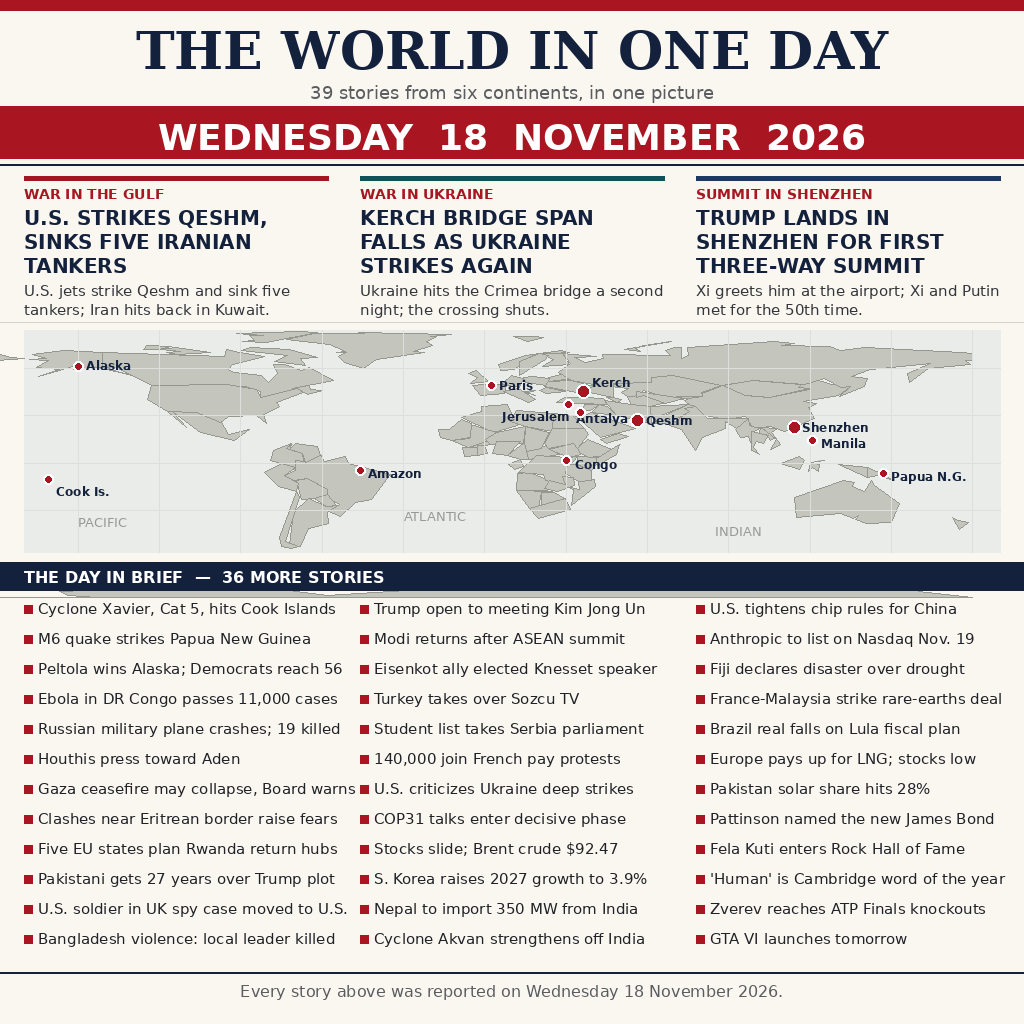
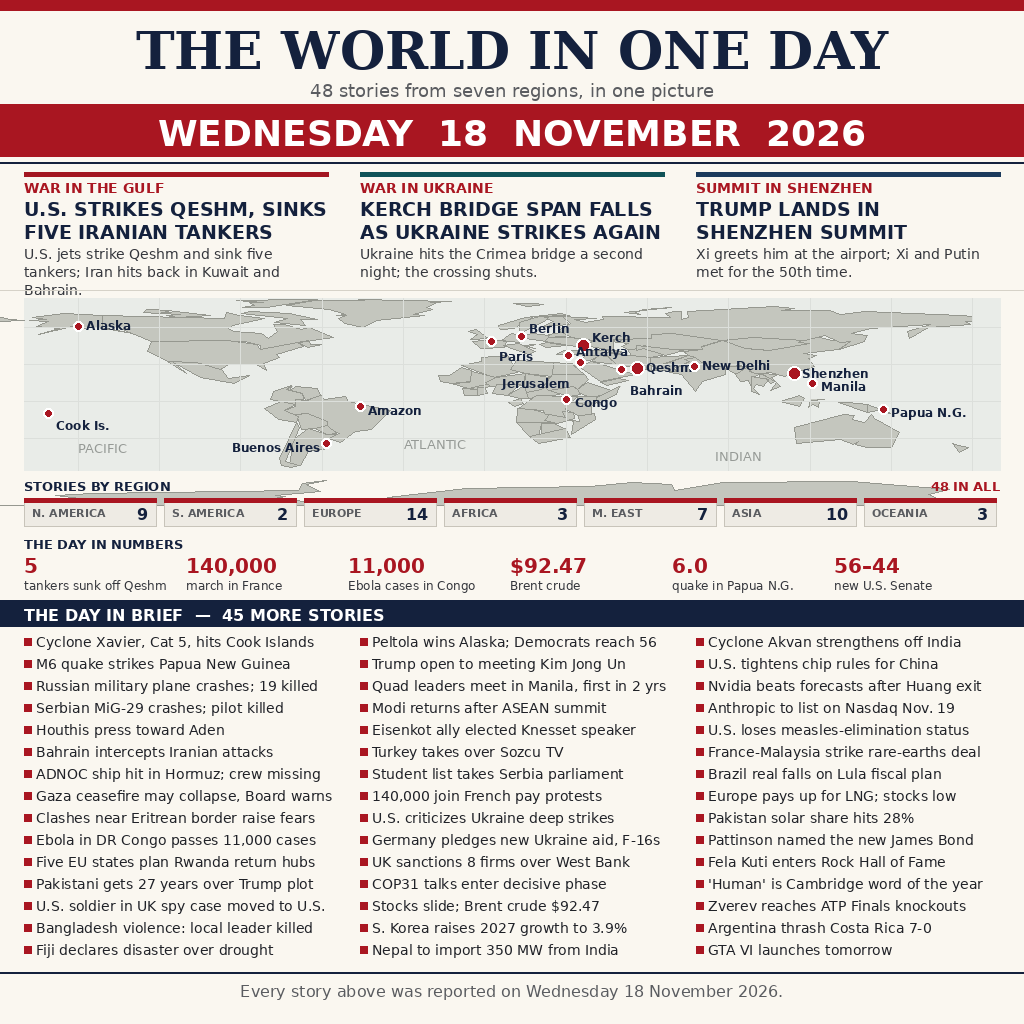
Improve front page: 48 stories, 7 regions, count bar, day in numbers
- 39 -> 48 stories (3 leads + 45 briefs), 9 new verified stories
  from 18 Nov 2026 (Quad Manila, Bahrain intercepts, ADNOC Hormuz,
  UK West Bank sanctions, US measles status, Nvidia earnings,
  Germany Ukraine aid, Serbian MiG-29, Argentina 7-0)
- 6 continents -> 7 regions, with a count bar (stories by region)
- New 'day in numbers' strip (5 tankers, 140,000 marchers, 11,000
  Ebola cases, $92.47 Brent, M6.0 quake, 56-44 Senate)
- Map hotspots 12 -> 16 (Bahrain, Berlin, Buenos Aires, New Delhi)
- Deterministic render, 1024x1024, 164,495 bytes

Changed region(s): [[0.0, 0.0625, 1.0, 0.9375], [0.0625, 0.4062, 0.125, 0.4375]]

diff --git a/draw_news.py b/draw_news.py
@@ -5,18 +5,19 @@ sums up world news of Wednesday 18 November 2026.
 Run:  python3 draw_news.py
 Out:  entry.png  (1024x1024, well under the 1 MiB gate)
 
-Layout: masthead + big date, 3 lead stories, a world map with the day's
-hotspots, and 36 more stories in brief -- 39 stories from six continents.
+Layout: masthead + big date, 3 lead stories, a world map with 16 hotspots,
+a count bar (stories by region, seven regions), a "day in numbers" strip,
+and 45 more stories in brief -- 48 stories from seven regions.
 
 The coastline data (coast.txt) is a simplified public-domain world outline
 (Natural Earth data, decimated to 88 polygons / 649 points); this script
 renders it. The map is drawn by this code, not copied as artwork.
 
-Every story was checked against live news on 18 Nov 2026 (One Turn's
-18 Nov edition, Outlook India / Times of India live blogs, NDTV,
-Al Jazeera, Reuters/Nikkei, RNZ, Fiji Met Service). Leads:
+Every story was checked against live news on 18 Nov 2026 (Times of India
+live blog, Outlook India, Anadolu Agency morning briefing, Just Security
+early edition, Level Headlines daily brief, MercoPress, TBS News). Leads:
   1. US strikes Qeshm Island and sinks five Iranian tankers; Iran hits
-     back in Kuwait and the Strait of Hormuz.
+     back in Kuwait and Bahrain.
   2. Ukraine hits the Kerch Bridge a second night; part of the span falls.
   3. Trump lands in Shenzhen for the first Trump-Xi-Putin trilateral.
 """
@@ -37,6 +38,8 @@ WHITE = (255, 255, 255)
 LAND = (196, 198, 190)
 LAND_EDGE = (150, 152, 144)
 SEA = (233, 236, 232)
+CHIP = (238, 235, 228)
+CHIP_EDGE = (200, 196, 186)
 
 FONT_DIR = "/usr/share/fonts/truetype/dejavu"
 
@@ -54,7 +57,7 @@ LEADS = [
         "kicker": "WAR IN THE GULF",
         "head": "U.S. STRIKES QESHM, SINKS FIVE IRANIAN TANKERS",
         "body": "U.S. jets strike Qeshm and sink five tankers; Iran hits back "
-                "in Kuwait.",
+                "in Kuwait and Bahrain.",
         "color": (163, 22, 33),
     },
     {
@@ -66,7 +69,7 @@ LEADS = [
     },
     {
         "kicker": "SUMMIT IN SHENZHEN",
-        "head": "TRUMP LANDS IN SHENZHEN FOR FIRST THREE-WAY SUMMIT",
+        "head": "TRUMP LANDS IN SHENZHEN SUMMIT",
         "body": "Xi greets him at the airport; Xi and Putin met for the 50th "
                 "time.",
         "color": (27, 58, 92),
@@ -78,48 +81,83 @@ DOTS = [
     (56.3, 26.9, "Qeshm", 8, -8, True),
     (36.5, 45.3, "Kerch", 8, -16, True),
     (114.1, 22.5, "Shenzhen", 8, -8, True),
+    (50.5, 26.2, "Bahrain", 8, 14, False),
+    (121.0, 14.6, "Manila", 8, -4, False),
+    (77.2, 28.6, "New Delhi", 8, -8, False),
+    (13.4, 52.5, "Berlin", 8, -16, False),
     (-161.0, -10.4, "Cook Is.", 8, 4, False),
     (147.0, -6.5, "Papua N.G.", 8, -4, False),
     (-149.9, 61.2, "Alaska", 8, -8, False),
     (30.2, 1.6, "Congo", 8, -4, False),
-    (30.7, 36.9, "Antalya", 8, 6, False),
-    (2.35, 48.85, "Paris", 8, -8, False),
-    (121.0, 14.6, "Manila", 8, -4, False),
-    (35.2, 31.8, "Jerusalem", -78, -4, False),
+    (30.7, 36.9, "Antalya", 8, -12, False),
+    (2.35, 48.85, "Paris", 8, 8, False),
+    (35.2, 31.8, "Jerusalem", -78, 14, False),
     (-46.0, -4.5, "Amazon", 8, -4, False),
+    (-58.4, -34.6, "Buenos Aires", -95, -4, False),
+]
+
+# stories by region (7 regions) -- must sum to 48 (3 leads + 45 briefs).
+# North America 9, South America 2, Europe 14, Africa 3,
+# Middle East 7, Asia 10, Oceania 3.
+REGION_COUNTS = [
+    ("N. AMERICA", 9),
+    ("S. AMERICA", 2),
+    ("EUROPE", 14),
+    ("AFRICA", 3),
+    ("M. EAST", 7),
+    ("ASIA", 10),
+    ("OCEANIA", 3),
+]
+
+# (big number, label) -- the day in numbers.
+NUMBERS = [
+    ("5", "tankers sunk off Qeshm"),
+    ("140,000", "march in France"),
+    ("11,000", "Ebola cases in Congo"),
+    ("$92.47", "Brent crude"),
+    ("6.0", "quake in Papua N.G."),
+    ("56\u201344", "new U.S. Senate"),
 ]
 
 BRIEF = [
-    # column 1 -- conflict, disaster, politics
+    # column 1 -- conflict, disaster, security
     "Cyclone Xavier, Cat 5, hits Cook Islands",
     "M6 quake strikes Papua New Guinea",
-    "Peltola wins Alaska; Democrats reach 56",
-    "Ebola in DR Congo passes 11,000 cases",
     "Russian military plane crashes; 19 killed",
+    "Serbian MiG-29 crashes; pilot killed",
     "Houthis press toward Aden",
+    "Bahrain intercepts Iranian attacks",
+    "ADNOC ship hit in Hormuz; crew missing",
     "Gaza ceasefire may collapse, Board warns",
     "Clashes near Eritrean border raise fears",
+    "Ebola in DR Congo passes 11,000 cases",
     "Five EU states plan Rwanda return hubs",
     "Pakistani gets 27 years over Trump plot",
     "U.S. soldier in UK spy case moved to U.S.",
     "Bangladesh violence: local leader killed",
-    # column 2 -- politics, economy
+    "Fiji declares disaster over drought",
+    # column 2 -- politics, diplomacy, economy
+    "Peltola wins Alaska; Democrats reach 56",
     "Trump open to meeting Kim Jong Un",
+    "Quad leaders meet in Manila, first in 2 yrs",
     "Modi returns after ASEAN summit",
     "Eisenkot ally elected Knesset speaker",
     "Turkey takes over Sozcu TV",
     "Student list takes Serbia parliament",
     "140,000 join French pay protests",
     "U.S. criticizes Ukraine deep strikes",
+    "Germany pledges new Ukraine aid, F-16s",
+    "UK sanctions 8 firms over West Bank",
     "COP31 talks enter decisive phase",
     "Stocks slide; Brent crude $92.47",
     "S. Korea raises 2027 growth to 3.9%",
     "Nepal to import 350 MW from India",
+    # column 3 -- tech, economy, culture, sport, health
     "Cyclone Akvan strengthens off India",
-    # column 3 -- tech, economy, culture, sport
     "U.S. tightens chip rules for China",
+    "Nvidia beats forecasts after Huang exit",
     "Anthropic to list on Nasdaq Nov. 19",
-    "Fiji declares disaster over drought",
+    "U.S. loses measles-elimination status",
     "France-Malaysia strike rare-earths deal",
     "Brazil real falls on Lula fiscal plan",
     "Europe pays up for LNG; stocks low",
@@ -128,6 +166,7 @@ BRIEF = [
     "Fela Kuti enters Rock Hall of Fame",
     "'Human' is Cambridge word of the year",
     "Zverev reaches ATP Finals knockouts",
+    "Argentina thrash Costa Rica 7-0",
     "GTA VI launches tomorrow",
 ]
 
@@ -206,50 +245,79 @@ def main():
     name = "THE WORLD IN ONE DAY"
     f = F_NAME(52)
     d.text(((W - d.textlength(name, font=f)) / 2, 20), name, font=f, fill=INK)
-    sub = "39 stories from six continents, in one picture"
+    sub = "48 stories from seven regions, in one picture"
     fs = F_REG(18)
-    d.text(((W - d.textlength(sub, font=fs)) / 2, 82), sub, font=fs, fill=GREY)
-    d.rectangle([0, 106, W, 158], fill=RED)
+    d.text(((W - d.textlength(sub, font=fs)) / 2, 80), sub, font=fs, fill=GREY)
+    d.rectangle([0, 104, W, 156], fill=RED)
     date = "WEDNESDAY  18  NOVEMBER  2026"
     fd = F_BOLD(36)
-    d.text(((W - d.textlength(date, font=fd)) / 2, 116), date, font=fd,
+    d.text(((W - d.textlength(date, font=fd)) / 2, 112), date, font=fd,
            fill=WHITE)
-    d.line([0, 164, W, 164], fill=INK, width=2)
+    d.line([0, 162, W, 162], fill=INK, width=2)
 
     # --- leads ---------------------------------------------------------
     col_w, gap = 304, 32
     x0 = 24
     for i, s in enumerate(LEADS):
         x = x0 + i * (col_w + gap)
-        d.rectangle([x, 176, x + col_w, 180], fill=s["color"])
-        fk, fh, fb = F_BOLD(14), F_BOLD(20), F_REG(15)
-        d.text((x, 186), s["kicker"], font=fk, fill=RED)
-        hy = 206
+        d.rectangle([x, 172, x + col_w, 176], fill=s["color"])
+        fk, fh, fb = F_BOLD(14), F_BOLD(19), F_REG(14)
+        d.text((x, 180), s["kicker"], font=fk, fill=RED)
+        hy = 198
         for line in wrap(d, s["head"], fh, col_w):
             d.text((x, hy), line, font=fh, fill=INK)
-            hy += 24
-        by = hy + 4
+            hy += 23
+        by = hy + 2
         for line in wrap(d, s["body"], fb, col_w):
             d.text((x, by), line, font=fb, fill=(52, 54, 60))
-            by += 19
-    d.line([0, 322, W, 322], fill=LIGHT, width=1)
+            by += 18
+    d.line([0, 290, W, 290], fill=LIGHT, width=1)
 
     # --- map -----------------------------------------------------------
-    draw_map(d, (24, 330, 1000, 552))
+    draw_map(d, (24, 298, 1000, 470))
 
-    # --- the day in brief ---------------------------------------------
-    d.rectangle([0, 562, W, 590], fill=INK)
+    # --- count bar: stories by region ----------------------------------
+    d.text((24, 478), "STORIES BY REGION", font=F_BOLD(13), fill=INK)
+    total = sum(n for _, n in REGION_COUNTS)
+    d.text((W - 24 - d.textlength("48 IN ALL", font=F_BOLD(13)), 478),
+           "48 IN ALL", font=F_BOLD(13), fill=RED)
+    chip_w, chip_gap = 132, 8
+    cx = 24
+    cy = 498
+    for name_r, n in REGION_COUNTS:
+        d.rectangle([cx, cy, cx + chip_w, cy + 28], fill=CHIP,
+                    outline=CHIP_EDGE, width=1)
+        d.rectangle([cx, cy, cx + chip_w, cy + 4], fill=RED)
+        fr = F_BOLD(11)
+        d.text((cx + 8, cy + 8), name_r, font=fr, fill=GREY)
+        fn = F_BOLD(16)
+        d.text((cx + chip_w - 8 - d.textlength(str(n), font=fn), cy + 7),
+               str(n), font=fn, fill=INK)
+        cx += chip_w + chip_gap
+
+    # --- the day in numbers --------------------------------------------
+    d.text((24, 536), "THE DAY IN NUMBERS", font=F_BOLD(13), fill=INK)
+    nw = (W - 48) // len(NUMBERS)
+    for i, (num, label) in enumerate(NUMBERS):
+        x = 24 + i * nw
+        fn = F_BOLD(20)
+        d.text((x, 554), num, font=fn, fill=RED)
+        fl = F_REG(12)
+        d.text((x, 578), label, font=fl, fill=(52, 54, 60))
+
+    # --- the day in brief ----------------------------------------------
+    d.rectangle([0, 600, W, 626], fill=INK)
     fb2 = F_BOLD(16)
-    d.text((24, 568), "THE DAY IN BRIEF  \u2014  36 MORE STORIES",
+    d.text((24, 606), "THE DAY IN BRIEF  \u2014  45 MORE STORIES",
            font=fb2, fill=WHITE)
-    f_item = F_REG(15)
+    f_item = F_REG(14)
     for col in range(3):
         x = 24 + col * (col_w + gap)
-        for row in range(12):
-            item = BRIEF[col * 12 + row]
-            y = 600 + row * 30
-            d.rectangle([x, y + 5, x + 8, y + 13], fill=RED)
-            d.text((x + 14, y), item, font=f_item, fill=(32, 34, 40))
+        for row in range(15):
+            item = BRIEF[col * 15 + row]
+            y = 634 + row * 22
+            d.rectangle([x, y + 4, x + 7, y + 11], fill=RED)
+            d.text((x + 12, y), item, font=f_item, fill=(32, 34, 40))
 
     # --- footer --------------------------------------------------------
     d.line([0, 972, W, 972], fill=INK, width=2)
@@ -261,6 +329,10 @@ def main():
     img.save(OUT, "PNG", optimize=True)
     size = os.path.getsize(OUT)
     print(f"wrote {OUT}: {img.size}, {size} bytes ({size / 1048576:.2f} MiB)")
+    # sanity: story count
+    print(f"stories: {len(LEADS)} leads + {len(BRIEF)} briefs = "
+          f"{len(LEADS) + len(BRIEF)}; regions sum to {total}; "
+          f"hotspots: {len(DOTS)}")
 
 
 if __name__ == "__main__":

diff --git a/README.md b/README.md
@@ -5,8 +5,9 @@
 [![reward](https://make.fun/badge/news-image-20261118/Kleponrachel/news-image-20261118/reward.svg)](https://make.fun/bounty/news-image-20261118?utm_source=github&utm_medium=readme&utm_campaign=news-image-20261118)
 
 A one-page newspaper front page that sums up the world's news of
-**Wednesday 18 November 2026**: 39 stories from six continents, led by
-the three biggest stories of the day and plotted on a world map.
+**Wednesday 18 November 2026**: 48 stories from seven regions, led by
+the three biggest stories of the day, plotted on a world map with 16
+hotspots, counted by region, and summed up in six numbers.
 
 ![The World in One Day, 18 November 2026](entry.png)
 
@@ -20,21 +21,27 @@ the three biggest stories of the day and plotted on a world map.
 3. **Summit in Shenzhen** — Trump lands in Shenzhen for the first
    Trump–Xi–Putin trilateral; Xi and Putin met for the 50th time.
 
-Plus 36 more stories in brief, from Cyclone Xavier (Category 5, Northern
+Plus 45 more stories in brief, from Cyclone Xavier (Category 5, Northern
 Cook Islands) and a magnitude 6 quake in Papua New Guinea to Peltola's
-Alaska Senate win, Ebola passing 11,000 cases in DR Congo, COP31's
-decisive phase, and "human" as Cambridge Dictionary's word of the year.
+Alaska Senate win, Ebola passing 11,000 cases in DR Congo, the Quad's
+first leaders' meeting in two years, COP31's decisive phase, and
+"human" as Cambridge Dictionary's word of the year. A count bar breaks
+the 48 stories down by region (North America 9, South America 2, Europe
+14, Africa 3, Middle East 7, Asia 10, Oceania 3), and a "day in numbers"
+strip leads with 5 tankers sunk, 140,000 marching in France, and 11,000
+Ebola cases.
 
 ## How the image was made
 
 `draw_news.py` (Python + Pillow, run at build time) draws the whole front
-page: masthead, date band, lead stories, a world map with the day's
-hotspots, and the 36-item brief list. The coastline data in `coast.txt`
+page: masthead, date band, lead stories, a world map with 16 hotspots,
+a count bar (stories by region), a "day in numbers" strip, and the
+45-item brief list. The coastline data in `coast.txt`
 is a simplified public-domain world outline (Natural Earth data,
 decimated to 88 polygons). Every story was checked against live news
-published on 18 November 2026 (One Turn's 18 Nov edition, Outlook India
-and Times of India live blogs, NDTV, Al Jazeera, Reuters/Nikkei, RNZ,
-Fiji Met Service).
+published on 18 November 2026 (Times of India and Outlook India live
+blogs, Anadolu Agency morning briefing, Just Security early edition,
+Level Headlines daily brief, MercoPress, TBS News).
 
 ## How to run
 
@@ -49,7 +56,7 @@ so the graded run needs no network and is fully deterministic.
 
 ## Gate check
 
-- `entry.png`: PNG, 1024 × 1024 px, 140,116 bytes (0.13 MiB) — inside the
+- `entry.png`: PNG, 1024 × 1024 px, 164,495 bytes (0.16 MiB) — inside the
   1 MiB and 1024 × 1024 limits, and a whole, valid PNG.
 - `main.py` run twice produces byte-identical output.
 
